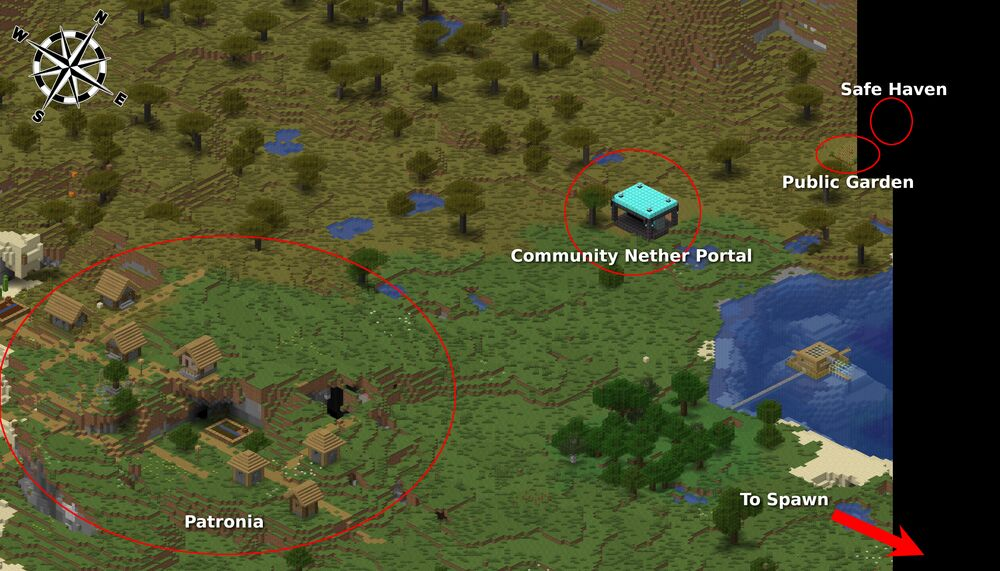
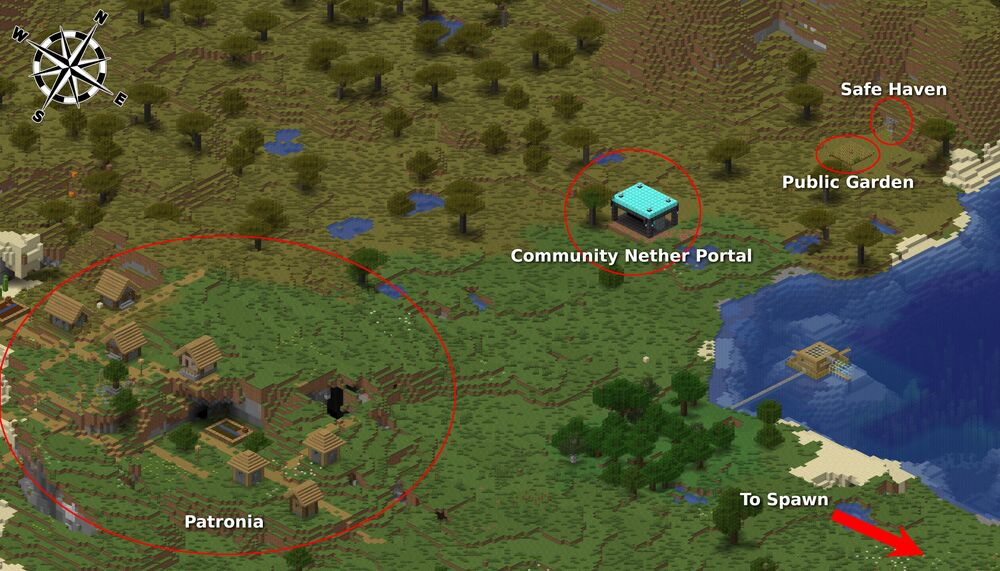
Map update: Settler's Village

Changed region(s): [[0.837, 0.0, 1.0, 1.0], [0.589, 0.387, 0.713, 0.4466]]

diff --git a/patrons/creative/maps.rst b/patrons/creative/maps.rst
@@ -1,0 +1,30 @@
+Creative Maps
+=============
+
+Pinecraft Map Generator scans our world once per day, and if any of the scanned regions have had signficant changes, updates our images automatically.
+
+Here are some key areas on our Creative server.
+
+Creative Portal
+^^^^^^^^^^^^^^^
+
+**Coordinates:** -28,~,-8
+
+Welcome to our Patron-exclusive Creative server! Upon spawning in the Survival world, run North-West to the Public Portal where you can transport to the Creative world.
+
+.. |creative_portal| image:: ../../img/pinecraft-maps/creative/creative_portal.jpg
+    :width: 600px
+    :alt: Creative Portal
+    :target: https://raw.githubusercontent.com/Cat5TV/pinecraft-docs/main/img/pinecraft-maps/creative/creative_portal.webp
+
++--------------------+
+| |creative_portal|  |
++--------------------+
+
+
+Add Your Base
+^^^^^^^^^^^^^
+
+Would you like your base added to this page? Ping Baldnerd on Discord.
+
+**Tip:** The camera drone flies from the far South East with the camera facing North West. So if your build is hidden behind a mountain, or facing North or West, the drone may not see it, or not capture it in all its glory. Consider facing your builds South or East to ensure the best pictures.

diff --git a/patrons/index.rst b/patrons/index.rst
@@ -10,5 +10,6 @@ Pinecraft Patron Servers
     survival/area_protection
     survival/notable_builds
     survival/maps
+    creative/maps
     plugins
 
